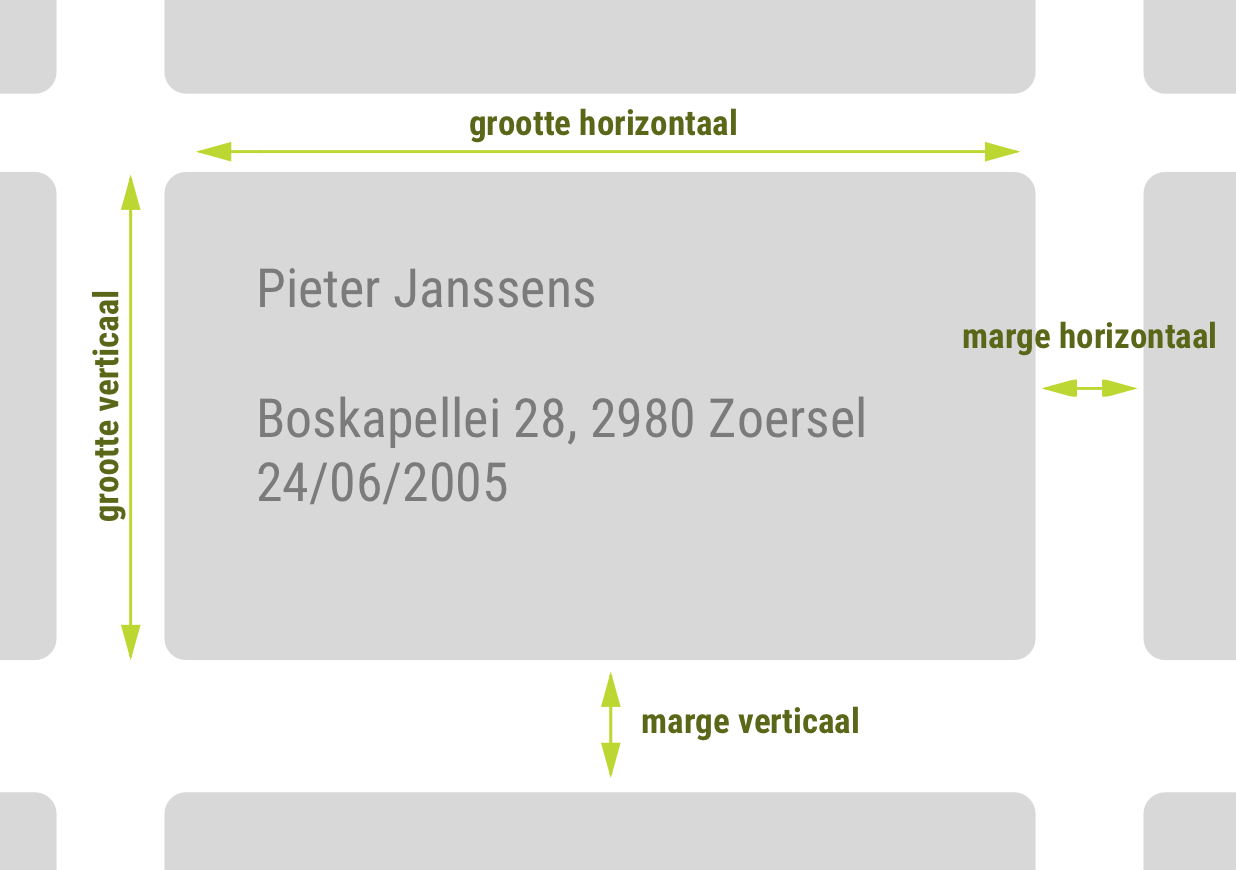
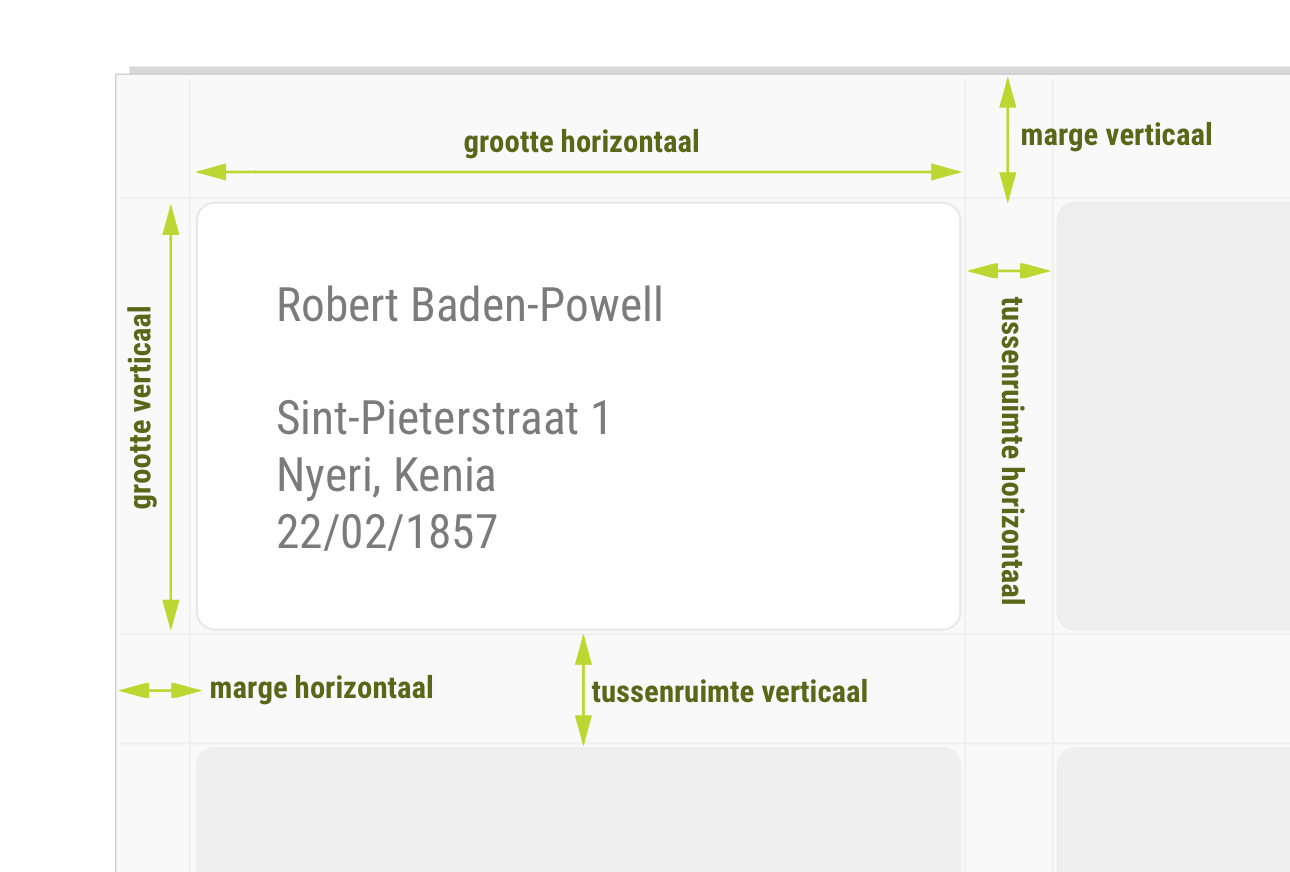
velden blanco en tussenruimte toegevoegd, voorbeeldafbeelding

diff --git a/partials/etiketten.html b/partials/etiketten.html
@@ -64,8 +64,8 @@
             <legend>Etiket eigenschappen</legend>
             <!-- -->
             <div class="form-group" ng-class="{ 'has-error': etikettenForm.groottehorizontaal.$touched && etikettenForm.groottehorizontaal.$invalid }">
-              <label for="fromname" class="col-xs-4 col-xxs-12 control-label">Grootte horizontaal <i ng-click="openInfoDialog()" class="fa fa-info-circle" aria-hidden="true"></i></label>
-              <div class="col-xs-7 col-xxs-10">
+              <label for="fromname" class="col-xs-6 col-xxs-12 control-label">Grootte horizontaal <i ng-click="openInfoDialog()" class="fa fa-info-circle" aria-hidden="true"></i></label>
+              <div class="col-xs-5 col-xxs-10">
                 <input type="number" min="1" class="form-control" name="groottehorizontaal" id="fromName" ng-model="sjabloon.grootte.horizontaal" required>
                 <div ng-messages="etikettenForm.groottehorizontaal.$error" ng-show="etikettenForm.groottehorizontaal.$touched">
                     <div ng-messages-include="partials/messages.html"></div>
@@ -76,8 +76,8 @@
             <!-- -->
             <!-- -->
             <div class="form-group" ng-class="{ 'has-error': etikettenForm.grootteverticaal.$touched && etikettenForm.grootteverticaal.$invalid }">
-              <label for="fromname" class="col-xs-4 col-xxs-12 control-label">Grootte verticaal <i ng-click="openInfoDialog()" class="fa fa-info-circle" aria-hidden="true"></i></label>
-              <div class="col-xs-7 col-xxs-10">
+              <label for="fromname" class="col-xs-6 col-xxs-12 control-label">Grootte verticaal <i ng-click="openInfoDialog()" class="fa fa-info-circle" aria-hidden="true"></i></label>
+              <div class="col-xs-5 col-xxs-10">
                 <input type="number" min="1"  class="form-control" name="grootteverticaal" id="grootteverticaal" ng-model="sjabloon.grootte.verticaal" required>
                 <div ng-messages="etikettenForm.grootteverticaal.$error" ng-show="etikettenForm.grootteverticaal.$touched">
                     <div ng-messages-include="partials/messages.html"></div>
@@ -88,8 +88,8 @@
             <!-- -->
             <!-- -->
             <div class="form-group" ng-class="{ 'has-error': etikettenForm.margehorizontaal.$touched && etikettenForm.margehorizontaal.$invalid }">
-              <label for="fromname" class="col-xs-4 col-xxs-12 control-label">Marge horizontaal <i ng-click="openInfoDialog()" class="fa fa-info-circle" aria-hidden="true"></i></label>
-              <div class="col-xs-7 col-xxs-10">
+              <label for="fromname" class="col-xs-6 col-xxs-12 control-label">Marge horizontaal <i ng-click="openInfoDialog()" class="fa fa-info-circle" aria-hidden="true"></i></label>
+              <div class="col-xs-5 col-xxs-10">
                 <input type="number" min="1"  class="form-control" name="margehorizontaal" id="fromName" ng-model="sjabloon.marge.horizontaal" required>
                 <div ng-messages="etikettenForm.margehorizontaal.$error" ng-show="etikettenForm.margehorizontaal.$touched">
                     <div ng-messages-include="partials/messages.html"></div>
@@ -100,8 +100,8 @@
             <!-- -->
             <!-- -->
             <div class="form-group" ng-class="{ 'has-error': etikettenForm.margeverticaal.$touched && etikettenForm.margeverticaal.$invalid }">
-              <label for="fromname" class="col-xs-4 col-xxs-12 control-label">Marge verticaal <i ng-click="openInfoDialog()" class="fa fa-info-circle" aria-hidden="true"></i></label>
-              <div class="col-xs-7 col-xxs-10">
+              <label for="fromname" class="col-xs-6 col-xxs-12 control-label">Marge verticaal <i ng-click="openInfoDialog()" class="fa fa-info-circle" aria-hidden="true"></i></label>
+              <div class="col-xs-5 col-xxs-10">
                 <input type="number" min="1"  class="form-control" name="margeverticaal" id="margeverticaal" ng-model="sjabloon.marge.verticaal" required>
                 <div ng-messages="etikettenForm.margeverticaal.$error" ng-show="etikettenForm.margeverticaal.$touched">
                     <div ng-messages-include="partials/messages.html"></div>
@@ -111,20 +111,48 @@
             </div>
             <!-- -->
 
-            <!-- *** VALUES BELOW ARE NOT SUPPORTED BY BACKEND *** -->
-            <!-- ****** -->
-            <!-- ****** -->
-            <!-- ****** -->
-            <!--
+
+            <!-- -->
+            <div class="form-group" ng-class="{ 'has-error': etikettenForm.tussenruimtehorizontaal.$touched && etikettenForm.tussenruimtehorizontaal.$invalid }">
+              <label for="fromname" class="col-xs-6 col-xxs-12 control-label">Tussenruimte horizontaal <i ng-click="openInfoDialog()" class="fa fa-info-circle" aria-hidden="true"></i></label>
+              <div class="col-xs-5 col-xxs-10">
+                <input type="number" min="1"  class="form-control" name="tussenruimtehorizontaal" id="fromName" ng-model="sjabloon.tussenruimte.horizontaal" required>
+                <div ng-messages="etikettenForm.tussenruimtehorizontaal.$error" ng-show="etikettenForm.tussenruimtehorizontaal.$touched">
+                    <div ng-messages-include="partials/messages.html"></div>
+                </div>
+              </div>
+              <label class="col-xs-1 col-xxs-2 control-label"> mm </label>
+            </div>
+            <!-- -->
+            <!-- -->
+            <div class="form-group" ng-class="{ 'has-error': etikettenForm.tussenruimteverticaal.$touched && etikettenForm.tussenruimteverticaal.$invalid }">
+              <label for="fromname" class="col-xs-6 col-xxs-12 control-label">Tussenruimte verticaal <i ng-click="openInfoDialog()" class="fa fa-info-circle" aria-hidden="true"></i></label>
+              <div class="col-xs-5 col-xxs-10">
+                <input type="number" min="1"  class="form-control" name="tussenruimteverticaal" id="tussenruimteverticaal" ng-model="sjabloon.tussenruimte.verticaal" required>
+                <div ng-messages="etikettenForm.tussenruimteverticaal.$error" ng-show="etikettenForm.tussenruimteverticaal.$touched">
+                    <div ng-messages-include="partials/messages.html"></div>
+                </div>
+              </div>
+              <label class="col-xs-1 col-xxs-2 control-label"> mm </label>
+            </div>
+            <!-- -->
+
+
             <div class="form-group" ng-class="{ 'has-error': etikettenForm.blanco.$touched && etikettenForm.blanco.$invalid }">
-              <label for="fromname" class="col-xs-4 col-xxs-12 control-label">Blanco</label>
-              <div class="col-xs-8 col-xxs-12">
+              <label for="fromname" class="col-xs-6 col-xxs-12 control-label">Blanco etiketten <i ng-click="openInfoDialog()" class="fa fa-info-circle" aria-hidden="true"></i></label>
+              <div class="col-xs-5 col-xxs-12">
                 <input type="text" class="form-control" name="blanco" id="blanco" ng-model="sjabloon.blanco" required>
                 <div ng-messages="etikettenForm.blanco.$error" ng-show="etikettenForm.blanco.$touched">
                     <div ng-messages-include="partials/messages.html"></div>
                 </div>
               </div>
             </div>
+
+            <!-- *** VALUES BELOW ARE NOT SUPPORTED BY BACKEND *** -->
+            <!-- ****** -->
+            <!-- ****** -->
+            <!-- ****** -->
+            <!--
             <div class="form-group" ng-class="{ 'has-error': etikettenForm.aantalEtikettenPerRij.$touched && etikettenForm.aantalEtikettenPerRij.$invalid }">
               <label for="fromname" class="col-xs-4 col-xxs-12 control-label">Aantal per rij</label>
               <div class="col-xs-8 col-xxs-12">
